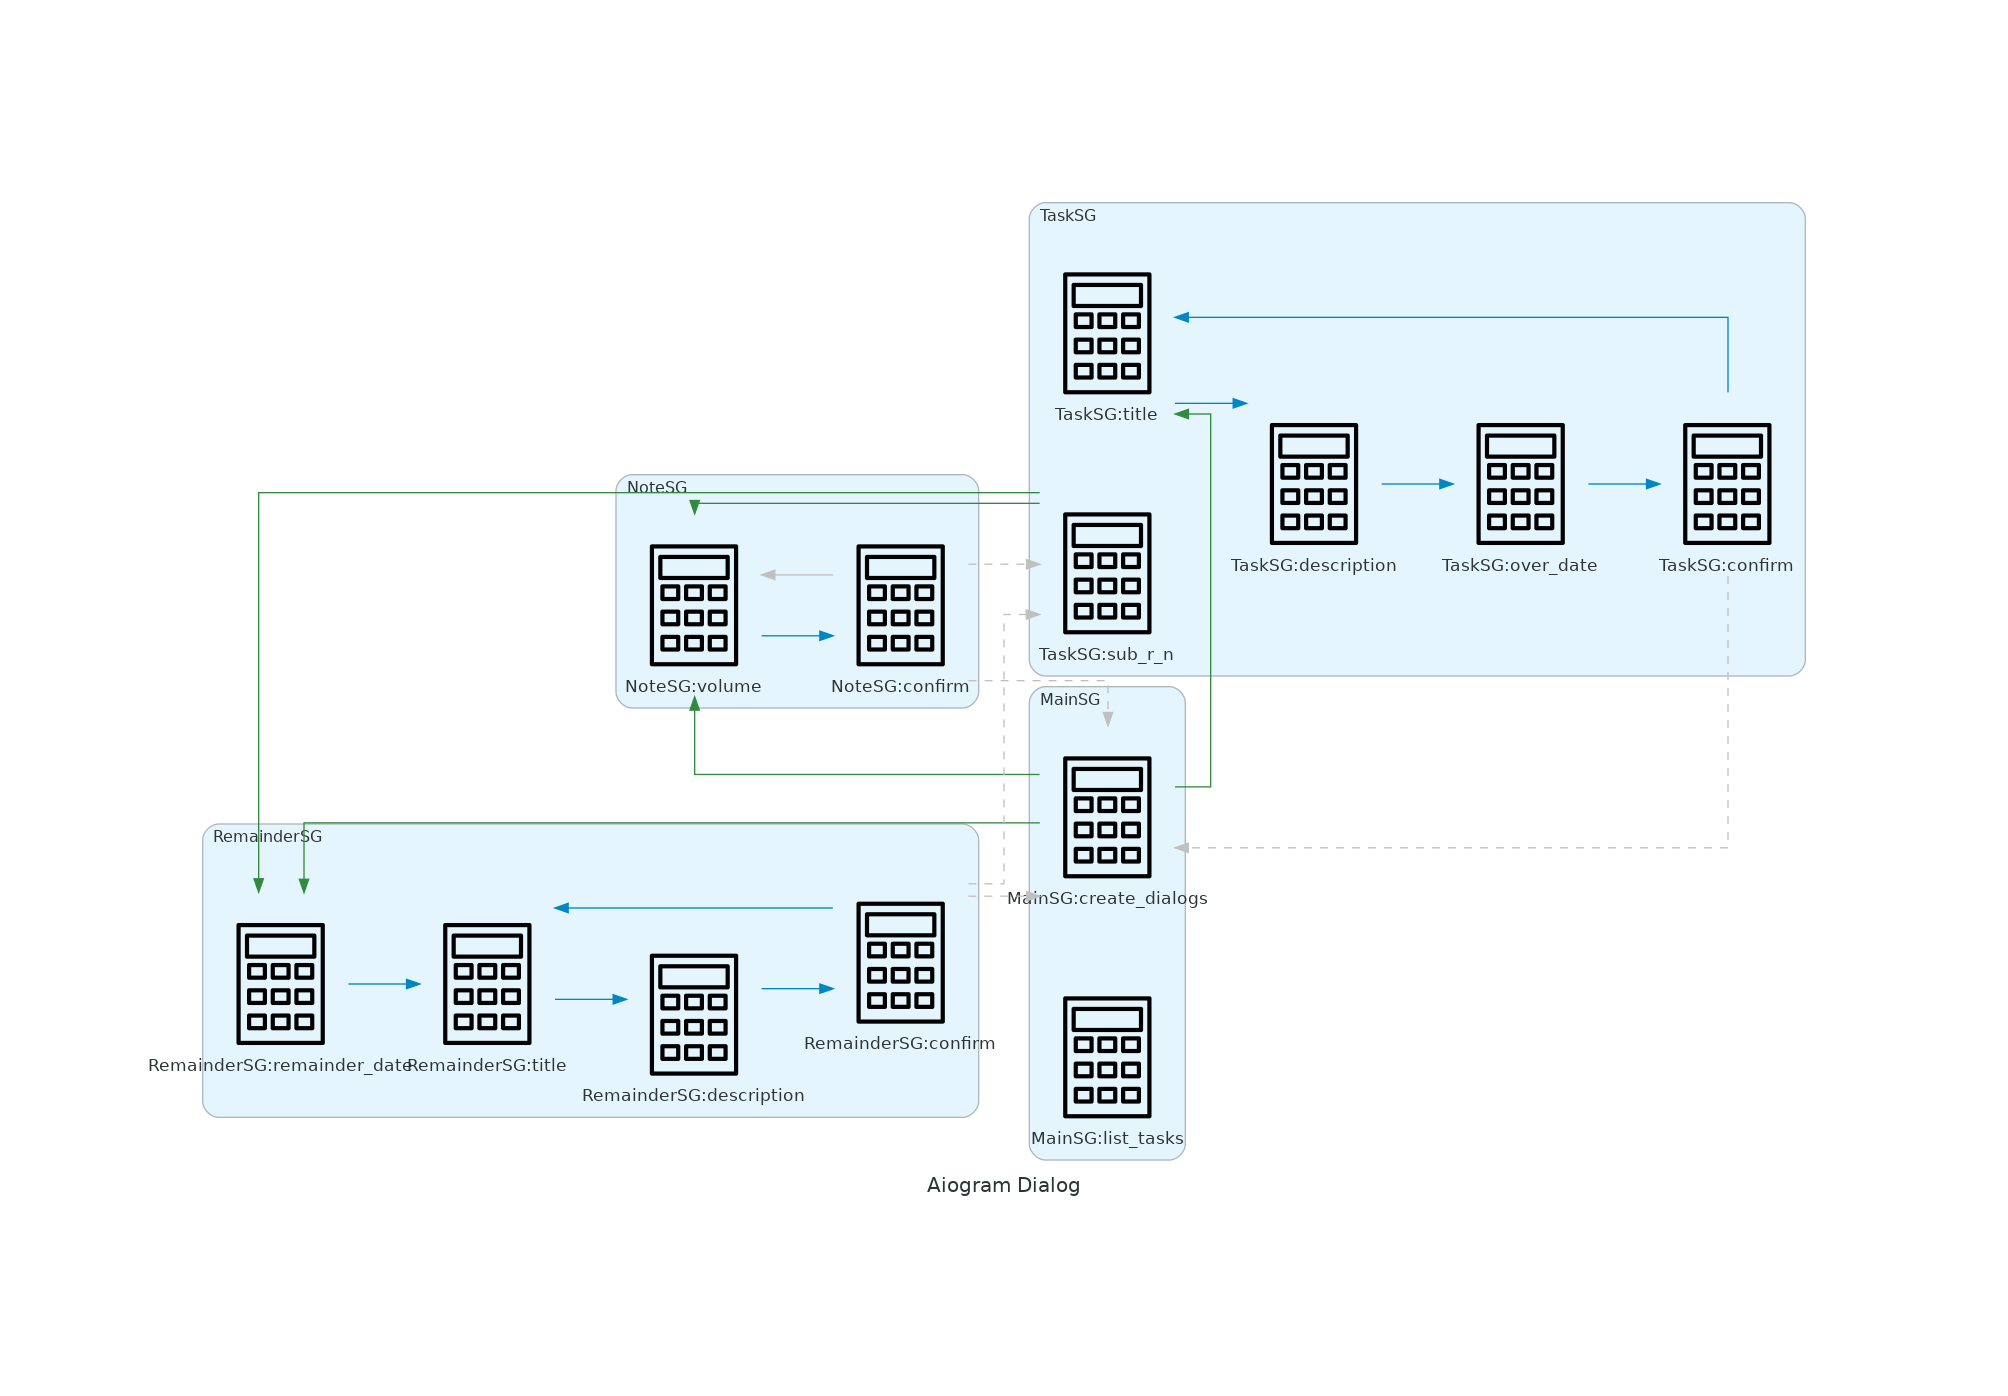
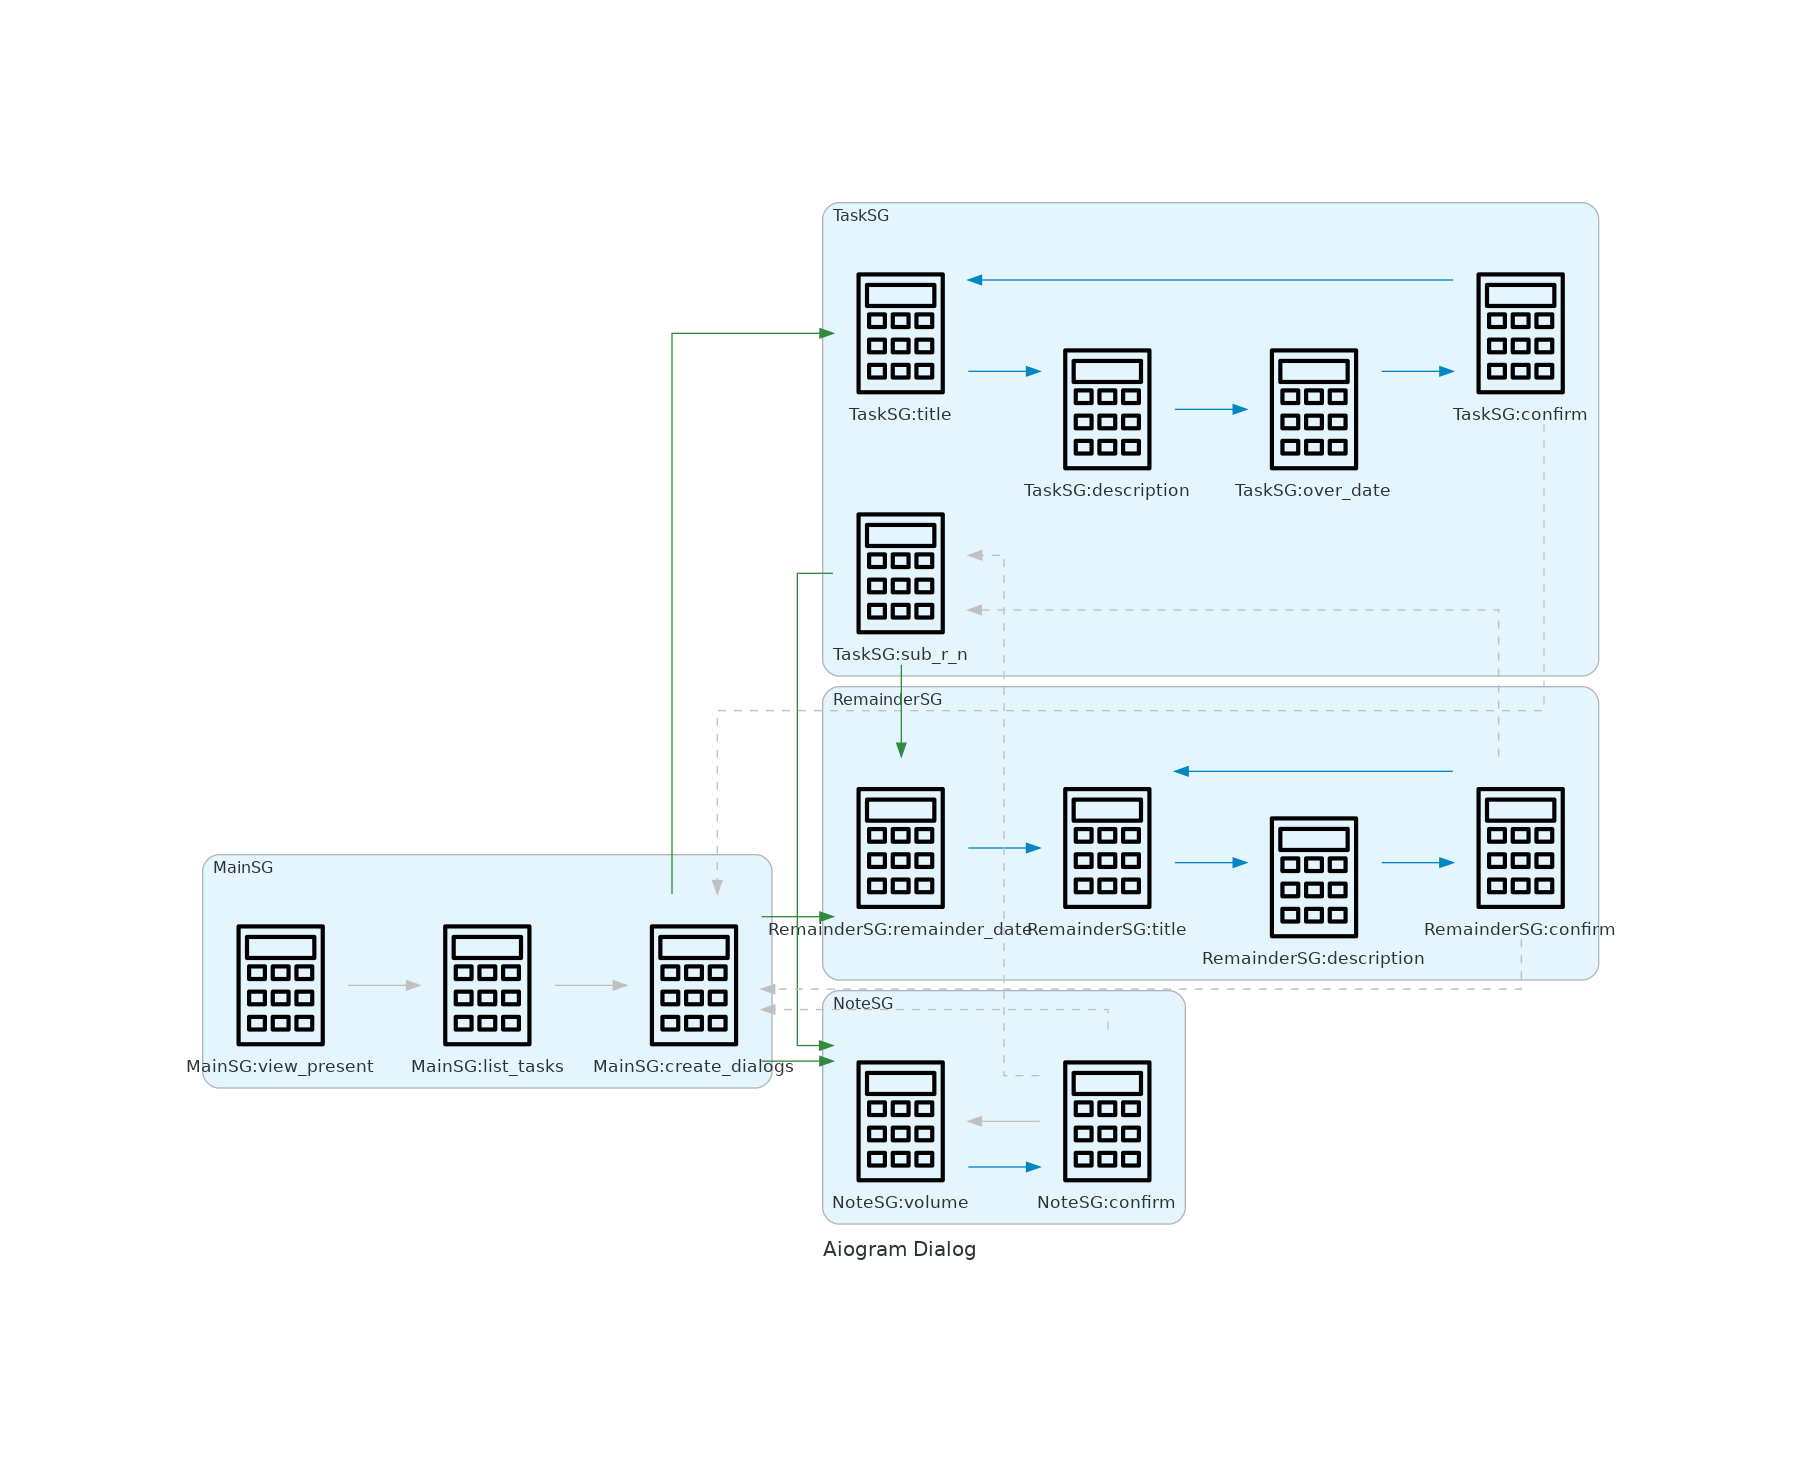
making view in proccess

Changed region(s): [[0.0933, 0.1232, 0.9017, 0.8625]]

diff --git a/bot/main_dialog.py b/bot/main_dialog.py
@@ -9,48 +9,62 @@ from datetime import date, datetime
 from aiogram.types import ParseMode
 from aiogram_dialog.widgets.text import Jinja
 from .states_dialog import TaskSG, RemainderSG, MainSG, NoteSG
-from base.my_requests import get_tasks
+from base.my_requests import get_tasks, get_notes, get_task
 
 
 async def get_data(dialog_manager: DialogManager, **kwargs):
     return {
         "task_list": dialog_manager.current_context().dialog_data.get("task_list"),
         "size_list": dialog_manager.current_context().dialog_data.get("size_list"),
-        "counter": dialog_manager.current_context().dialog_data.get("counter")
+        "curr_task": dialog_manager.current_context().dialog_data.get("curr_task")
     }
 
 
+async def set_curr_id(manager: DialogManager):
+    manager.current_context().dialog_data["id_curr_task"] = ((await get_data(manager))
+                                                             .get('task_list')[(await get_data(manager))
+                                                                               .get('curr_task')])
+
+
 async def check_prev(c: CallbackQuery, button: Button, manager: DialogManager):
-    if manager.current_context().dialog_data["counter"] != 0:
-        manager.current_context().dialog_data["counter"] -= 1
+    if manager.current_context().dialog_data["curr_task"] != 0:
+        manager.current_context().dialog_data["curr_task"] -= 1
+        await set_curr_id(manager)
 
 
 async def check_next(c: CallbackQuery, button: Button, manager: DialogManager):
-    if manager.current_context().dialog_data["counter"] != (await get_data(manager)).get('size_list'):
-        manager.current_context().dialog_data["counter"] += 1
+    if manager.current_context().dialog_data["curr_task"] != (await get_data(manager)).get('size_list'):
+        manager.current_context().dialog_data["curr_task"] += 1
+        await set_curr_id(manager)
 
 
 async def on_end_dialog(c: CallbackQuery, button: Button, manager: DialogManager):
     await manager.done()
 
 
-async def get_task_list(c: CallbackQuery, button: Button, manager: DialogManager):
+async def load_task_list(c: CallbackQuery, button: Button, manager: DialogManager):
     manager.current_context().dialog_data["task_list"] = get_tasks()
-    manager.current_context().dialog_data['counter'] = 0
+    manager.current_context().dialog_data['curr_task'] = 0
     manager.current_context().dialog_data["size_list"] = len((await get_data(manager)).get('task_list')) -1
+    await set_curr_id(manager)
     await manager.dialog().next(manager)
 
-async def select_item(c: CallbackQuery, button: Button, manager: DialogManager):
-    pass
+
+async def on_selected_task(c: CallbackQuery, button: Button, manager: DialogManager):
+    manager.current_context().dialog_data["list_notes"] = get_notes((await get_data(manager))
+                                                                    .get('id_curr_task'))
+    await manager.dialog().next(manager)
 
 
 html_text = Jinja("""
 <b>Список задач</b>
 {% for k,v in task_list.items() %}
-{% if k == counter %}=>{% else %}  {% endif %}{{v.ftitle}}
+{% if k == curr_task %}=>{% else %}  {% endif %}{{v.ftitle}}
 {% endfor %}
 """)
+view_task = Jinja("""
 
+""")
 
 main_dialog = Dialog(
     Window(
@@ -60,20 +74,26 @@ main_dialog = Dialog(
             Start(Const("Создать напоминание"), id='new_remainder', state=RemainderSG.remainder_date),
             Start(Const("Создать заметку"), id='new_note', state=NoteSG.volume)
         ),
-        Button(Const('Дальше'), id='present_list', on_click=get_task_list),
+        Button(Const('Дальше'), id='present_list', on_click=load_task_list),
         state=MainSG.create_dialogs,
     ),
     Window(
         html_text,
-        Back(Const('Хочу что то запланировать')),
+        Back(Const('< Вернуться к созданию задач')),
         Row(
             Button(Const('<<'), id='prev', on_click=check_prev),
-            Button(Const('*'), id='select', on_click=select_item),
+            Button(Const('*'), id='select', on_click=on_selected_task),
             Button(Const('>>'), id='next', on_click=check_next),
         ),
-        Next(Const('Дальше')),
         parse_mode=ParseMode.HTML,
         getter=get_data,
         state=MainSG.list_tasks
+    ),
+    Window(
+        view_task,
+        Back(Const('< Вернуться к списку задач')),
+        parse_mode=ParseMode.HTML,
+        #getter= get_data, <------ геттер
+        state=MainSG.view_present
     ),
 )

diff --git a/base/my_requests.py b/base/my_requests.py
@@ -1,4 +1,6 @@
+from anytree import Node, RenderTree
 from .orm_models import User, Remainder, Task, Note
+
 
 def get_user_info(id):
     query = User.select().where(User.id_user==id)
@@ -58,8 +60,7 @@ def get_task(id_t):
 
 
 def get_tasks():
-    query = Task.select(Task.id_task,
-                        Task.ftitle)
+    query = Task.select()
     ret = {}
     for counter, item in enumerate(query.namedtuples()):
         ret[counter] = item
@@ -71,7 +72,11 @@ def get_remainders():
     return  query
 
 
-def get_notes():
-    query = Note.select()
-    return query
+def get_notes(id_task=None):
+    query = (Note
+             .select(Note.fvolume)
+             .join_from(Note, Task)
+             .where(Task.id_task == id_task))
+    ret = list(item for item in query.namedtuples())
+    return ret
 

diff --git a/filling_base.py b/filling_base.py
@@ -1,7 +1,7 @@
-from base.my_requests import add_task, add_remainder, add_note
+from base.my_requests import add_task, add_remainder, add_note, get_notes
 from datetime import datetime
 
-
+"""
 id_t = add_task(['title', 'description', datetime.now()])
 
 data = [datetime.now(), 'title', 'messasge', ]
@@ -14,3 +14,8 @@ for i in range(5):
 for i in range(3):
     add_remainder(data)
     add_note(data1)
+    
+"""
+
+for iteem  in get_notes(2):
+	print (iteem.fvolume)

diff --git a/bot/states_dialog.py b/bot/states_dialog.py
@@ -19,6 +19,7 @@ class TaskSG(StatesGroup):
 class MainSG(StatesGroup):
     create_dialogs = State()
     list_tasks = State()
+    view_present= State()
 
 
 class NoteSG(StatesGroup):
